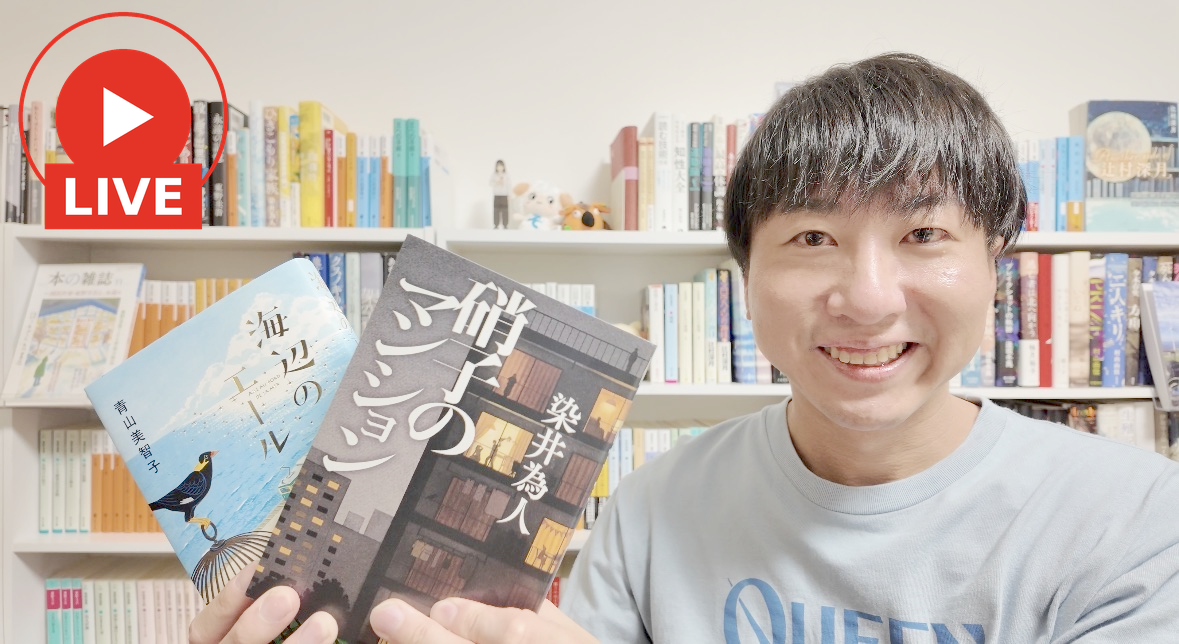
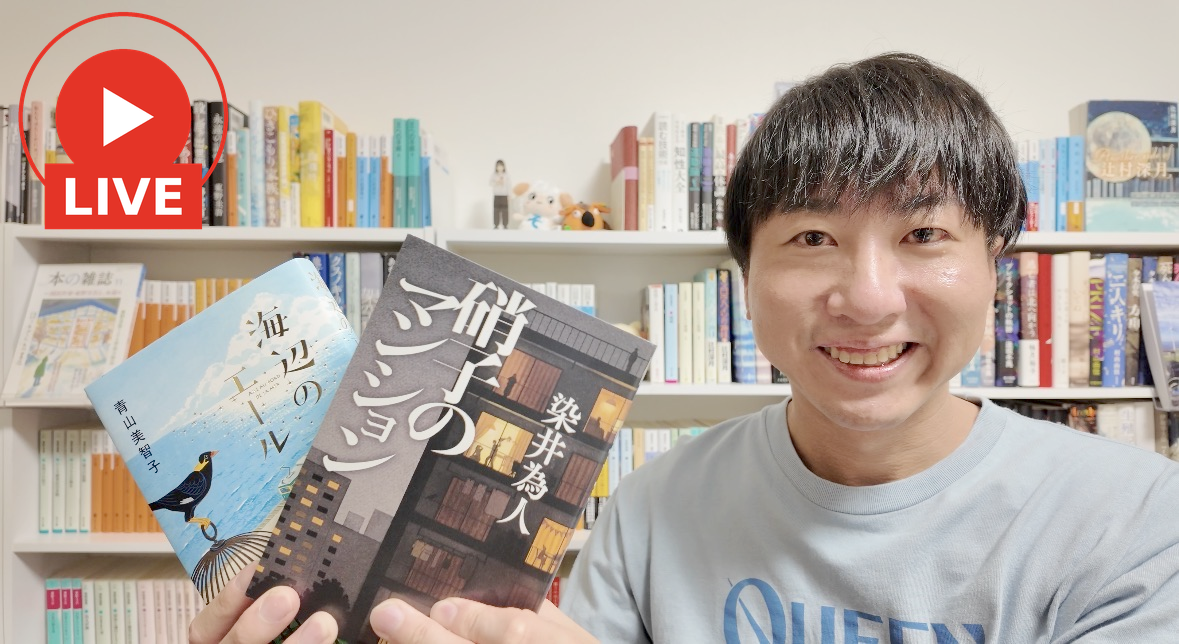
ライブ配信サムネイル：明るさを自然な程度に下げる
Claude-Session: https://claude.ai/code/session_01PgBssd9mgKDSdASv1kBNHd

diff --git a/CLAUDE.md b/CLAUDE.md
@@ -35,7 +35,7 @@ vlog のサムネイルを頼まれたら、毎回この方法で作る。
 - 見本: `thumbnail/share-lounge-yodoyabashi/`（2 行）
 
 ## ライブ配信のサムネイル
-- 写真 1 枚の左上に LIVE マーク（赤い輪＋再生ボタン＋「LIVE」）を入れ、明るさを見本（平均 185）に合わせる
-- `thumbnail/<フォルダ名>/` に `photo.jpg` と `config.json`（`{"brightness": 185}`）を置く
+- 写真 1 枚の左上に LIVE マーク（赤い輪＋再生ボタン＋「LIVE」）を入れ、明るさを見本（平均 170 くらいが自然）に合わせる
+- `thumbnail/<フォルダ名>/` に `photo.jpg` と `config.json`（`{"brightness": 170}`）を置く
 - 実行: `python3 thumbnail/live_mark.py thumbnail/<フォルダ名>` → `thumbnail.png`（上書き）
 - 見本: `thumbnail/live-2026-10/`
